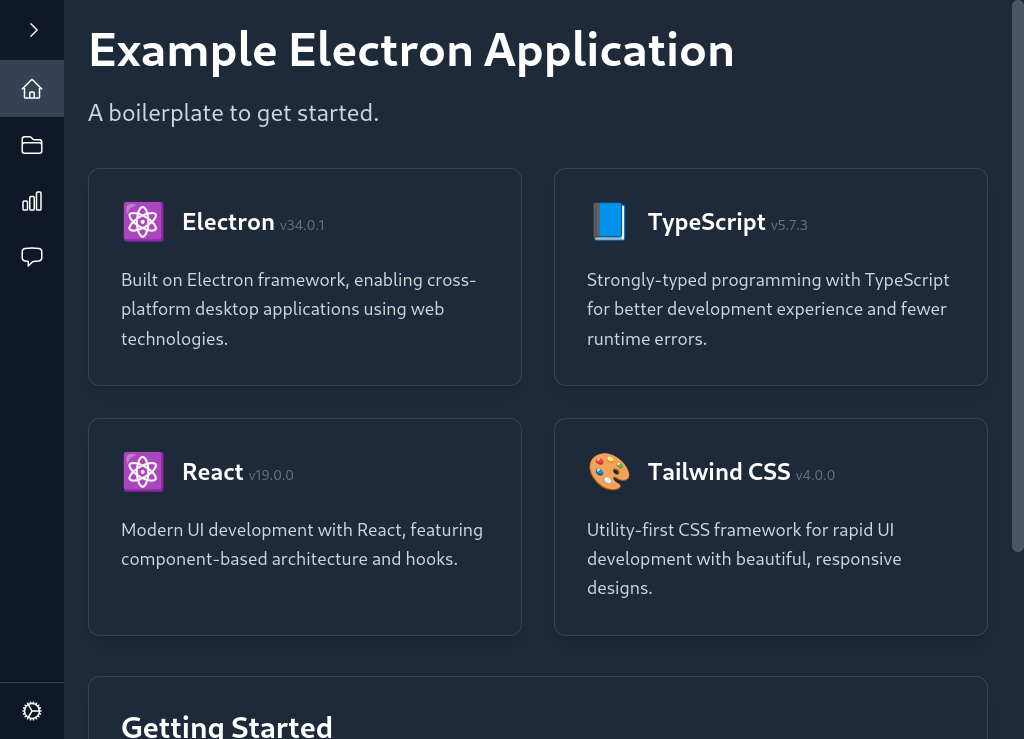
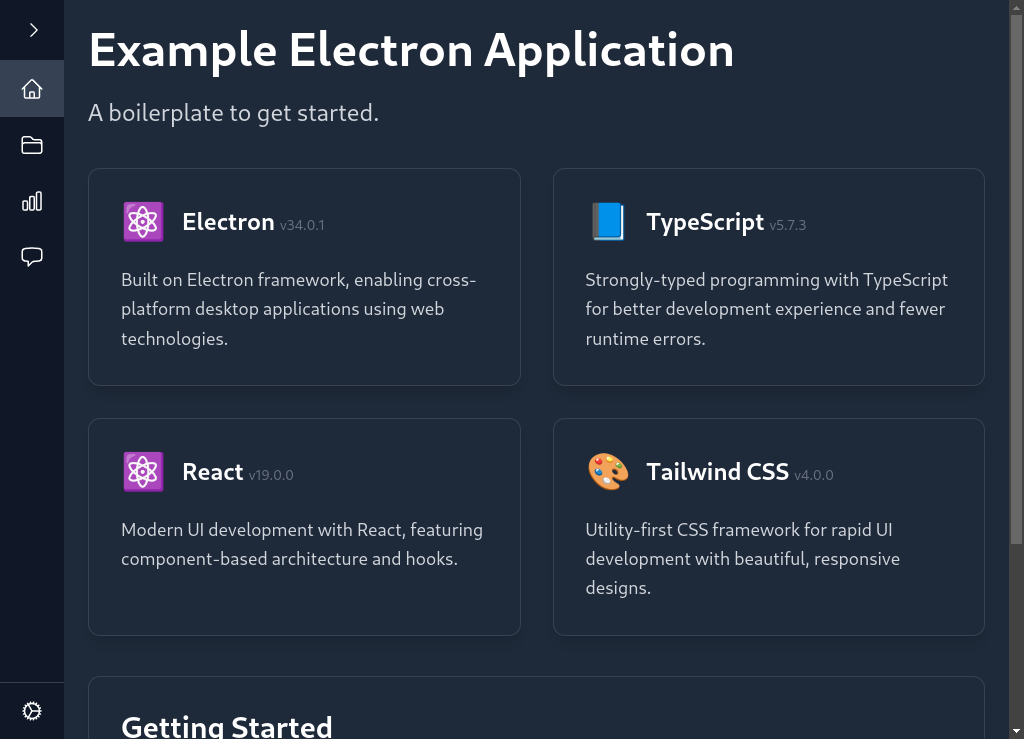
feat: placeholder settings; keyboard navigation - shift+? opens dialog with shortcuts - removed custom scrollbar - use color-scheme: light dark

diff --git a/src/components/settings-panel.tsx b/src/components/settings-panel.tsx
@@ -1,0 +1,105 @@
+import { BellIcon, CogIcon, ComputerDesktopIcon, DocumentArrowDownIcon } from "@heroicons/react/24/outline";
+import React from "react";
+
+interface AppSettings {
+  theme: "system" | "light" | "dark";
+  autoSave: boolean;
+  notifications: boolean;
+}
+
+export const SettingsPanel: React.FC = () => {
+  const [settings, setSettings] = React.useState<AppSettings>({
+    theme: "system",
+    autoSave: true,
+    notifications: true,
+  });
+
+  const handleChange = (key: keyof AppSettings, value: string | boolean) => {
+    setSettings((prev) => ({ ...prev, [key]: value }));
+  };
+
+  return (
+    <div className="p-6 flex justify-center">
+      <div className="max-w-2xl w-full space-y-6 bg-white dark:bg-gray-800 rounded-lg shadow-sm border border-gray-200 dark:border-gray-700 p-6">
+        <h2 className="text-2xl font-semibold flex items-center gap-2">
+          <CogIcon className="w-6 h-6" />
+          Settings
+        </h2>
+
+        <div className="space-y-4">
+          <div className="flex items-center space-x-4 p-2 hover:bg-gray-50 dark:hover:bg-gray-700 rounded-lg transition-colors">
+            <div className="flex items-center gap-2 flex-1">
+              <ComputerDesktopIcon className="w-5 h-5" />
+              <span className="font-medium dark:text-gray-200">Theme</span>
+            </div>
+            <select
+              value={settings.theme}
+              onChange={(e) => handleChange("theme", e.target.value)}
+              className="w-32 rounded border border-gray-300 dark:border-gray-600 px-3 py-1 bg-white dark:bg-gray-800
+              text-gray-900 dark:text-gray-100 focus:ring-2 focus:ring-blue-500 dark:focus:ring-blue-400
+              focus:border-transparent outline-none"
+            >
+              <option value="system">System</option>
+              <option value="light">Light</option>
+              <option value="dark">Dark</option>
+            </select>
+          </div>
+
+          <div
+            className="flex items-center space-x-4 p-2 hover:bg-gray-50 dark:hover:bg-gray-700 rounded-lg transition-colors cursor-pointer"
+            onClick={() => handleChange("notifications", !settings.notifications)}
+          >
+            <div className="flex items-center gap-2 flex-1">
+              <BellIcon className="w-5 h-5" />
+              <span className="font-medium dark:text-gray-200">Notifications</span>
+            </div>
+            <button
+              role="switch"
+              aria-checked={settings.notifications}
+              onClick={(e) => {
+                e.stopPropagation();
+                handleChange("notifications", !settings.notifications);
+              }}
+              className={`relative inline-flex h-6 w-11 items-center rounded-full transition-colors focus:outline-none focus:ring-2 focus:ring-blue-500 focus:ring-offset-2 ${
+                settings.notifications ? "bg-blue-600" : "bg-gray-300 dark:bg-gray-600"
+              }`}
+            >
+              <span
+                className={`inline-block h-4 w-4 transform rounded-full bg-white transition-transform ${
+                  settings.notifications ? "translate-x-6" : "translate-x-1"
+                }`}
+              />
+            </button>
+          </div>
+
+          <div
+            className="flex items-center space-x-4 p-2 hover:bg-gray-50 dark:hover:bg-gray-700 rounded-lg transition-colors cursor-pointer"
+            onClick={() => handleChange("autoSave", !settings.autoSave)}
+          >
+            <div className="flex items-center gap-2 flex-1">
+              <DocumentArrowDownIcon className="w-5 h-5" />
+              <span className="font-medium dark:text-gray-200">Auto-save</span>
+            </div>
+            <button
+              role="switch"
+              aria-checked={settings.autoSave}
+              onClick={(e) => {
+                e.stopPropagation();
+                handleChange("autoSave", !settings.autoSave);
+              }}
+              className={`relative inline-flex h-6 w-11 items-center rounded-full transition-colors focus:outline-none focus:ring-2 focus:ring-blue-500 focus:ring-offset-2 ${
+                settings.autoSave ? "bg-blue-600" : "bg-gray-300 dark:bg-gray-600"
+              }`}
+            >
+              <span
+                className={`inline-block h-4 w-4 transform rounded-full bg-white transition-transform ${
+                  settings.autoSave ? "translate-x-6" : "translate-x-1"
+                }`}
+              />
+            </button>
+          </div>
+        </div>
+      </div>
+    </div>
+  );
+};

diff --git a/src/components/dashboard.tsx b/src/components/dashboard.tsx
@@ -1,7 +1,9 @@
-import { useEffect, useState } from "react";
 import * as icons from "@heroicons/react/24/outline";
-import { Sidebar } from "./sidebar";
+import { useEffect, useState } from "react";
 import { Home } from "./home";
+import { KeyboardShortcutsModal } from "./keyboard-shortcuts-modal";
+import { SettingsPanel } from "./settings-panel";
+import { Sidebar } from "./sidebar";
 
 const menuItems: Sidebar.MenuItem[] = [
   { icon: icons.HomeIcon, name: "Home" },
@@ -18,6 +20,7 @@ export function Dashboard() {
   const [isExpanded, setIsExpanded] = useState(() => {
     return localStorage.getItem("sidebarExpanded") !== "false";
   });
+  const [isShortcutsModalOpen, setIsShortcutsModalOpen] = useState(false);
 
   useEffect(() => {
     localStorage.setItem("activeTab", activeTab);
@@ -27,8 +30,28 @@ export function Dashboard() {
     localStorage.setItem("sidebarExpanded", String(isExpanded));
   }, [isExpanded]);
 
+  useEffect(() => {
+    const handleKeyDown = (e: KeyboardEvent) => {
+      if ((e.ctrlKey || e.metaKey) && e.key === ",") {
+        e.preventDefault();
+        setActiveTab("Settings");
+      }
+      if ((e.ctrlKey || e.metaKey) && e.shiftKey && e.key.toLowerCase() === "e") {
+        e.preventDefault();
+        setActiveTab("Home");
+      }
+      if (e.shiftKey && e.key === "?") {
+        e.preventDefault();
+        setIsShortcutsModalOpen(true);
+      }
+    };
+
+    window.addEventListener("keydown", handleKeyDown);
+    return () => window.removeEventListener("keydown", handleKeyDown);
+  }, []);
+
   return (
-    <div className="flex h-screen">
+    <div className="flex h-screen bg-gray-100 dark:bg-gray-800 transition-colors duration-200">
       <Sidebar
         activeTab={activeTab}
         setActiveTab={setActiveTab}
@@ -40,13 +63,24 @@ export function Dashboard() {
         className={`flex-1 p-6 overflow-auto transition-[margin-left] duration-300
         ${isExpanded ? "ml-64" : "ml-16"}`}
       >
-        {activeTab === "Home" && <Home />}
-        {activeTab !== "Home" && (
-          <div className="bg-white dark:bg-gray-900 rounded-lg shadow p-6">
-            <p className="text-gray-600 dark:text-gray-300">Content for {activeTab} panel goes here</p>
-          </div>
-        )}
+        {renderActiveTabContent(activeTab)}
       </main>
+      {isShortcutsModalOpen && <KeyboardShortcutsModal onClose={() => setIsShortcutsModalOpen(false)} />}
     </div>
   );
 }
+
+const renderActiveTabContent = (activeTab: string) => {
+  switch (activeTab) {
+    case "Home":
+      return <Home />;
+    case "Settings":
+      return <SettingsPanel />;
+    default:
+      return (
+        <div className="bg-white dark:bg-gray-900 rounded-lg shadow p-6">
+          <p className="text-gray-600 dark:text-gray-300">Content for {activeTab} panel goes here</p>
+        </div>
+      );
+  }
+};

diff --git a/src/components/keyboard-shortcuts-modal.tsx b/src/components/keyboard-shortcuts-modal.tsx
@@ -1,0 +1,68 @@
+import { XMarkIcon } from "@heroicons/react/24/outline";
+import { useEffect, useRef } from "react";
+
+export interface KeyboardShortcutsModalProps {
+  onClose: () => void;
+}
+
+const shortcuts = [
+  { keys: ["⌘/Ctrl", ","], description: "Open settings" },
+  { keys: ["⌘/Ctrl", "Shift", "E"], description: "Go to home" },
+  { keys: ["Shift", "?"], description: "Show keyboard shortcuts" },
+];
+
+export const KeyboardShortcutsModal: React.FC<KeyboardShortcutsModalProps> = ({ onClose }) => {
+  const dialogRef = useRef<HTMLDialogElement>(null);
+
+  useEffect(() => {
+    dialogRef.current!.showModal();
+  }, []);
+
+  return (
+    <dialog
+      ref={dialogRef}
+      className="backdrop:bg-black/50 bg-transparent p-0 max-w-[640px] w-full rounded-lg shadow-lg fixed top-1/2 left-1/2 -translate-x-1/2 -translate-y-1/2 m-0"
+      onClose={onClose}
+      onClick={(e) => {
+        if (e.target === e.currentTarget) {
+          onClose();
+        }
+      }}
+    >
+      <div
+        className="bg-white dark:bg-gray-800 rounded-lg w-full dark:border-gray-700 shadow-md"
+        onClick={(e) => e.stopPropagation()}
+      >
+        <div className="flex justify-between items-center p-4 border-b border-gray-200 dark:border-gray-700">
+          <h2 className="text-lg font-semibold text-gray-900 dark:text-gray-100">Keyboard Shortcuts</h2>
+          <button
+            onClick={onClose}
+            className="text-gray-500 hover:text-gray-700 dark:text-gray-400 dark:hover:text-gray-200 cursor-pointer focus:outline-none"
+          >
+            <XMarkIcon className="w-5 h-5" />
+          </button>
+        </div>
+        <div className="p-4">
+          {shortcuts.map((shortcut, index) => (
+            <div
+              key={index}
+              className="flex justify-between items-center py-2 border-b last:border-b-0 border-gray-200 dark:border-gray-700"
+            >
+              <div className="flex gap-1">
+                {shortcut.keys.map((key, keyIndex) => (
+                  <kbd
+                    key={keyIndex}
+                    className="px-2 py-1 text-sm font-semibold bg-gray-100 dark:bg-gray-800 text-gray-900 dark:text-gray-100 rounded border border-gray-300 dark:border-gray-600"
+                  >
+                    {key}
+                  </kbd>
+                ))}
+              </div>
+              <span className="text-gray-600 dark:text-gray-400">{shortcut.description}</span>
+            </div>
+          ))}
+        </div>
+      </div>
+    </dialog>
+  );
+};

diff --git a/src/global.css b/src/global.css
@@ -1,19 +1,5 @@
 @import "tailwindcss";
 
 :root {
-  @apply bg-gray-100 dark:bg-gray-800 transition-colors duration-200;
-}
-
-@layer components {
-  ::-webkit-scrollbar {
-    @apply w-3;
-  }
-
-  ::-webkit-scrollbar-track {
-    @apply bg-transparent;
-  }
-
-  ::-webkit-scrollbar-thumb {
-    @apply bg-gray-400 dark:bg-gray-600 rounded-full hover:bg-gray-500 dark:hover:bg-gray-500 transition-colors;
-  }
+  color-scheme: light dark;
 }
